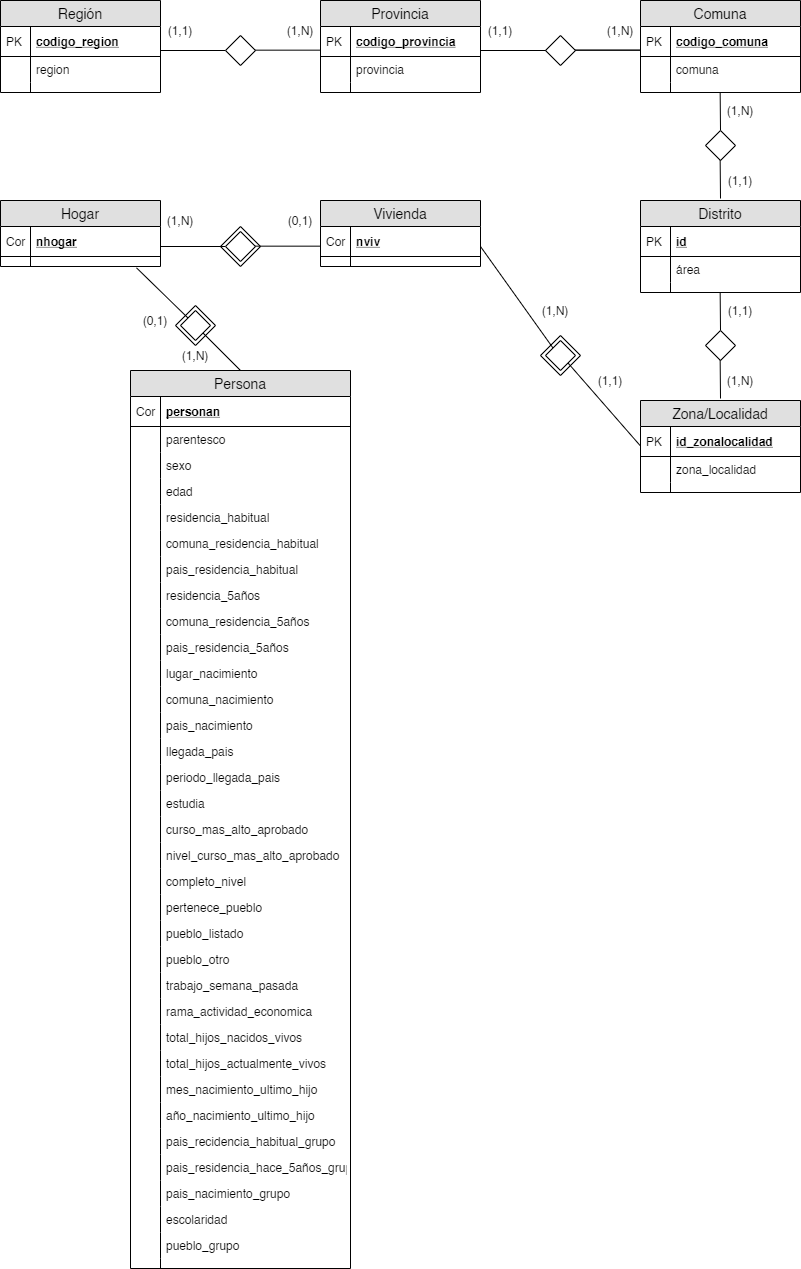
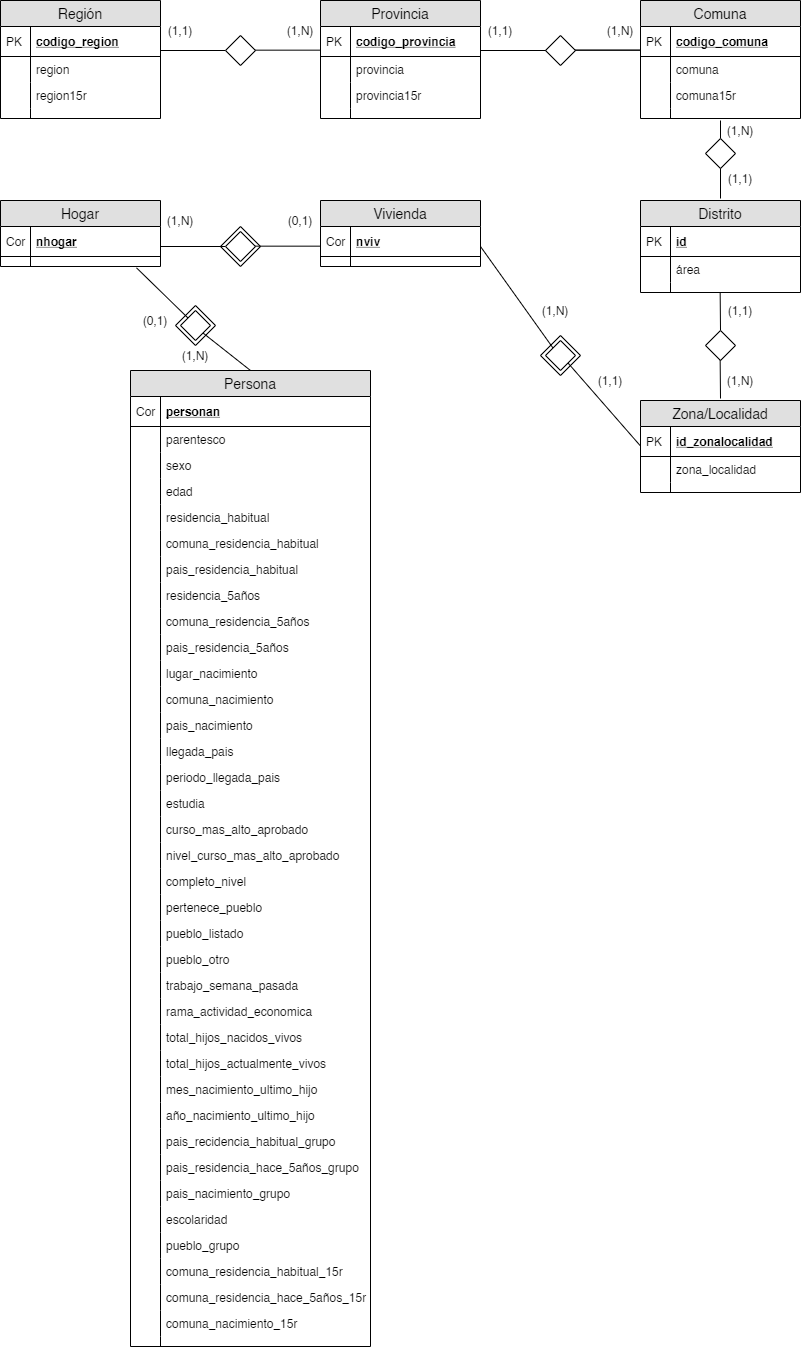
updating

diff --git a/listas.py b/listas.py
@@ -1,8 +1,8 @@
 import pandas as pd
 
-# Lista de paises y pueblos se entregarán como clave -> valor
-# para poder hallar más facilmente el nombre del país o pueblo
-# antes de insertarlo a la base de datos.
+# Lista de paises, comunas y pueblos se entregarán como clave -> valor
+# para poder hallar más facilmente el nombre del pais, comuna o pueblo
+# antes de insertarlo a la base de datos, evitando asi realizar multiples querys
 
 # Para las demas listas no es necesario clave -> valor, 
 # pues se recorreran normalmente mediante su iteración ya que estas
@@ -34,8 +34,7 @@ def lista_comunas():
     comunas = {}
     df = pd.read_csv('comunas.csv', sep=',')
     for i in range(len(df['comuna'])):
-        comunas[i] = {
-                        'codigo_comuna' : df['codigo_comuna'][i],
+        comunas[df['codigo_comuna'][i]] = {
                         'comuna' : df['comuna'][i],
                         'codigo_provincia' : df['codigo_provincia'][i]
                     }

diff --git a/README.md b/README.md
@@ -70,21 +70,21 @@ El entendimiento de los datos se puede conocer a través del manual de usuario. 
 
 # Modelo relacional
 
-Region					(**<u>codigo_region</u>**, region)
+Region					(**<u>codigo_region</u>**, region, region15r)
 
- Provincia				(<u>**codigo_provincia**</u>, provincia, *codigo_region*)
+Provincia				(<u>**codigo_provincia**</u>, provincia, provincia15r, *codigo_region*)
 
- Comuna				 (**<u>codigo_comuna</u>**, comuna, *codigo_provincia*)
+Comuna				 (**<u>codigo_comuna</u>**, comuna, comuna15r, *codigo_provincia*)
 
- Distrito				   (**<u>id</u>**, area)
+Distrito				   (**<u>id</u>**, area)
 
- ZonaLocalidad	  (**<u>id_zonalocalidad</u>**, zona_localidad)
+ZonaLocalidad	  (**<u>id_zonalocalidad</u>**, zona_localidad)
 
- Vivienda				 (**<u>id_zonalocalidad,nviv</u>**)
+Vivienda				 (**<u>id_zonalocalidad,nviv</u>**)
 
- Hogar					 (**<u>id_zonalocalidad,nviv,nhogar</u>**)
+Hogar					 (**<u>id_zonalocalidad,nviv,nhogar</u>**)
 
- Persona				 (**<u>id_zonalocalidad,nviv,nhogar,personan</u>**)
+Persona				 (**<u>id_zonalocalidad,nviv,nhogar,personan</u>**, atributos)
 
 ---
 
